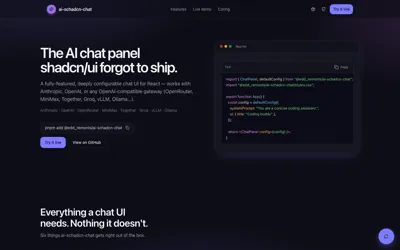
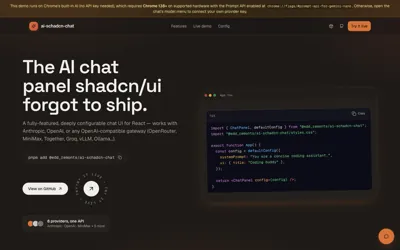
assets: add the GeoLocal cover; correct two wrong claims about it
Retracts what the previous commit and findings.md said.

GeoLocal is not broken and is not empty. It fails only under the headless
Chrome used for the first capture; in a real browser it renders fully and
reports 25.000 listings, 4 verticals and 8 neighbourhoods with a live map,
per-neighbourhood counts and a featured-listings carousel. The "0 listings"
figure came from reading the server-rendered HTML before the counters
hydrated — which is not the same thing as loading the page.

- public/projects/geolocal-cover.png plus AVIF/WebP variants.
- ai-shadcn-chat cover recaptured at 1440x900 in a real browser; the previous
  one was cropped oddly and missed the "8 providers, one API" panel.
- findings.md: the retraction, the verified numbers for all four projects,
  and the console issues found on the live sites (GeoLocal logs React #418
  hydration mismatch; ai-schadcn-chat serves a malformed web manifest).

diff --git a/docs/impeccable/findings.md b/docs/impeccable/findings.md
@@ -381,25 +381,47 @@ marketplace for Copenhagen. Properties, vehicles, services and experiences —
 one map, one conversation." Four verticals on one map, hand-curated from
 Airbnb / Boliga / Homestra / Facebook plus local submissions.
 
-### Two things that need your call before this ships
+### Correction (verified in a real browser)
 
-1. **GeoLocal is broken in the browser.** The URL answers HTTP 200 and the
-   server-rendered HTML is real, but the client render fails and the page
-   renders "Something went wrong! / Show Error". That is what the screenshot
-   captured, so no cover was committed. Linking it from the portfolio right now
-   sends founders to an error screen.
+An earlier version of this section claimed GeoLocal was broken and had zero
+listings. Both claims were wrong and are retracted:
 
-2. **GeoLocal has nothing to show yet.** Its own page reports 0 listings across
-   all four categories and 0 neighbourhoods mapped, "Volume 01". The flagship
-   `ProductStories` format is CONTEXT / COMPLEXITY / DECISIONS / RESULTS with a
-   measured outcome per project — there is no measured outcome here, and
-   inventing one would be the exact opposite of what the rest of the page does.
-   Options: ship it as a "Más proyectos" row instead of a flagship, write the
-   flagship entry around the design thesis with no metrics, or hold it until
-   there are listings.
+- **It is not broken.** It fails only under the headless Chrome used for the
+  first capture. In a normal browser it renders fully.
+- **It is not empty.** It reports **25.000 listings · 4 verticals · 8
+  neighbourhoods**, a live Mapbox map of Copenhagen, per-neighbourhood counts
+  (Østerbro 2.537, Valby 2.529, Frederiksberg 2.524, Indre By 2.509, Nørrebro
+  2.504, Christianshavn 2.502, Nordhavn 2.480, Vanløse 2.480), four verticals
+  (properties 5.000, vehicles 10.000, services 5.000, experiences 5.000) and a
+  featured-listings carousel with real prices in DKK.
 
-Similarly, `ai-schadcn-chat` (10 weekly downloads) and `ai-os` (13) have real
-but small adoption numbers. They are honest as "shipped and installable"; they
-are not honest as traction claims. The current flagship entries lead with
-94% / 98 / sub-12ms — the new four cannot match that register truthfully, so
-the section's framing needs to change with its contents.
+The "0 listings / 0 neighbourhoods" figure came from WebFetch reading the
+server-rendered HTML before the counters hydrated. Reading SSR output is not a
+substitute for loading the page.
+
+Covers for all four projects are now committed.
+
+### Console findings on the live sites (minor, not blockers)
+
+- **GeoLocal** — `Minified React error #418` (hydration mismatch) on load, plus
+  a Mapbox warning: `Image "wood-pattern" could not be loaded`.
+- **ai-schadcn-chat** — `Manifest: Line: 1, column: 1, Syntax error` — the web
+  manifest is malformed. Two Chrome built-in-AI warnings are expected: the demo
+  runs on Gemini Nano when available and falls back to a provider key.
+
+### The one thing that still needs your call
+
+The flagship `ProductStories` format is CONTEXT / COMPLEXITY / DECISIONS /
+**RESULTS**, and the current three entries open with 94% / 98 / sub-12ms —
+outcomes measured on client platforms at scale. The new four are your own
+products, and their honest numbers are of a different kind: 25.000 listings and
+8 neighbourhoods (GeoLocal), 13 sources and recency-weighted scoring
+(BuilderHunt), ~300 skills across 6 CLIs (AI-OS), 8 providers behind one API
+(ai-schadcn-chat). Adoption is small and recent — 10 and 13 weekly npm
+downloads for the two packages.
+
+Those are strong *product* facts and weak *traction* facts. So the section's
+framing has to move from "measured impact on someone else's platform" to
+"things I designed, built and shipped end to end" — which is arguably the
+better story for a founder anyway. Confirm the framing and I will write the
+four entries in en/es/dk.
